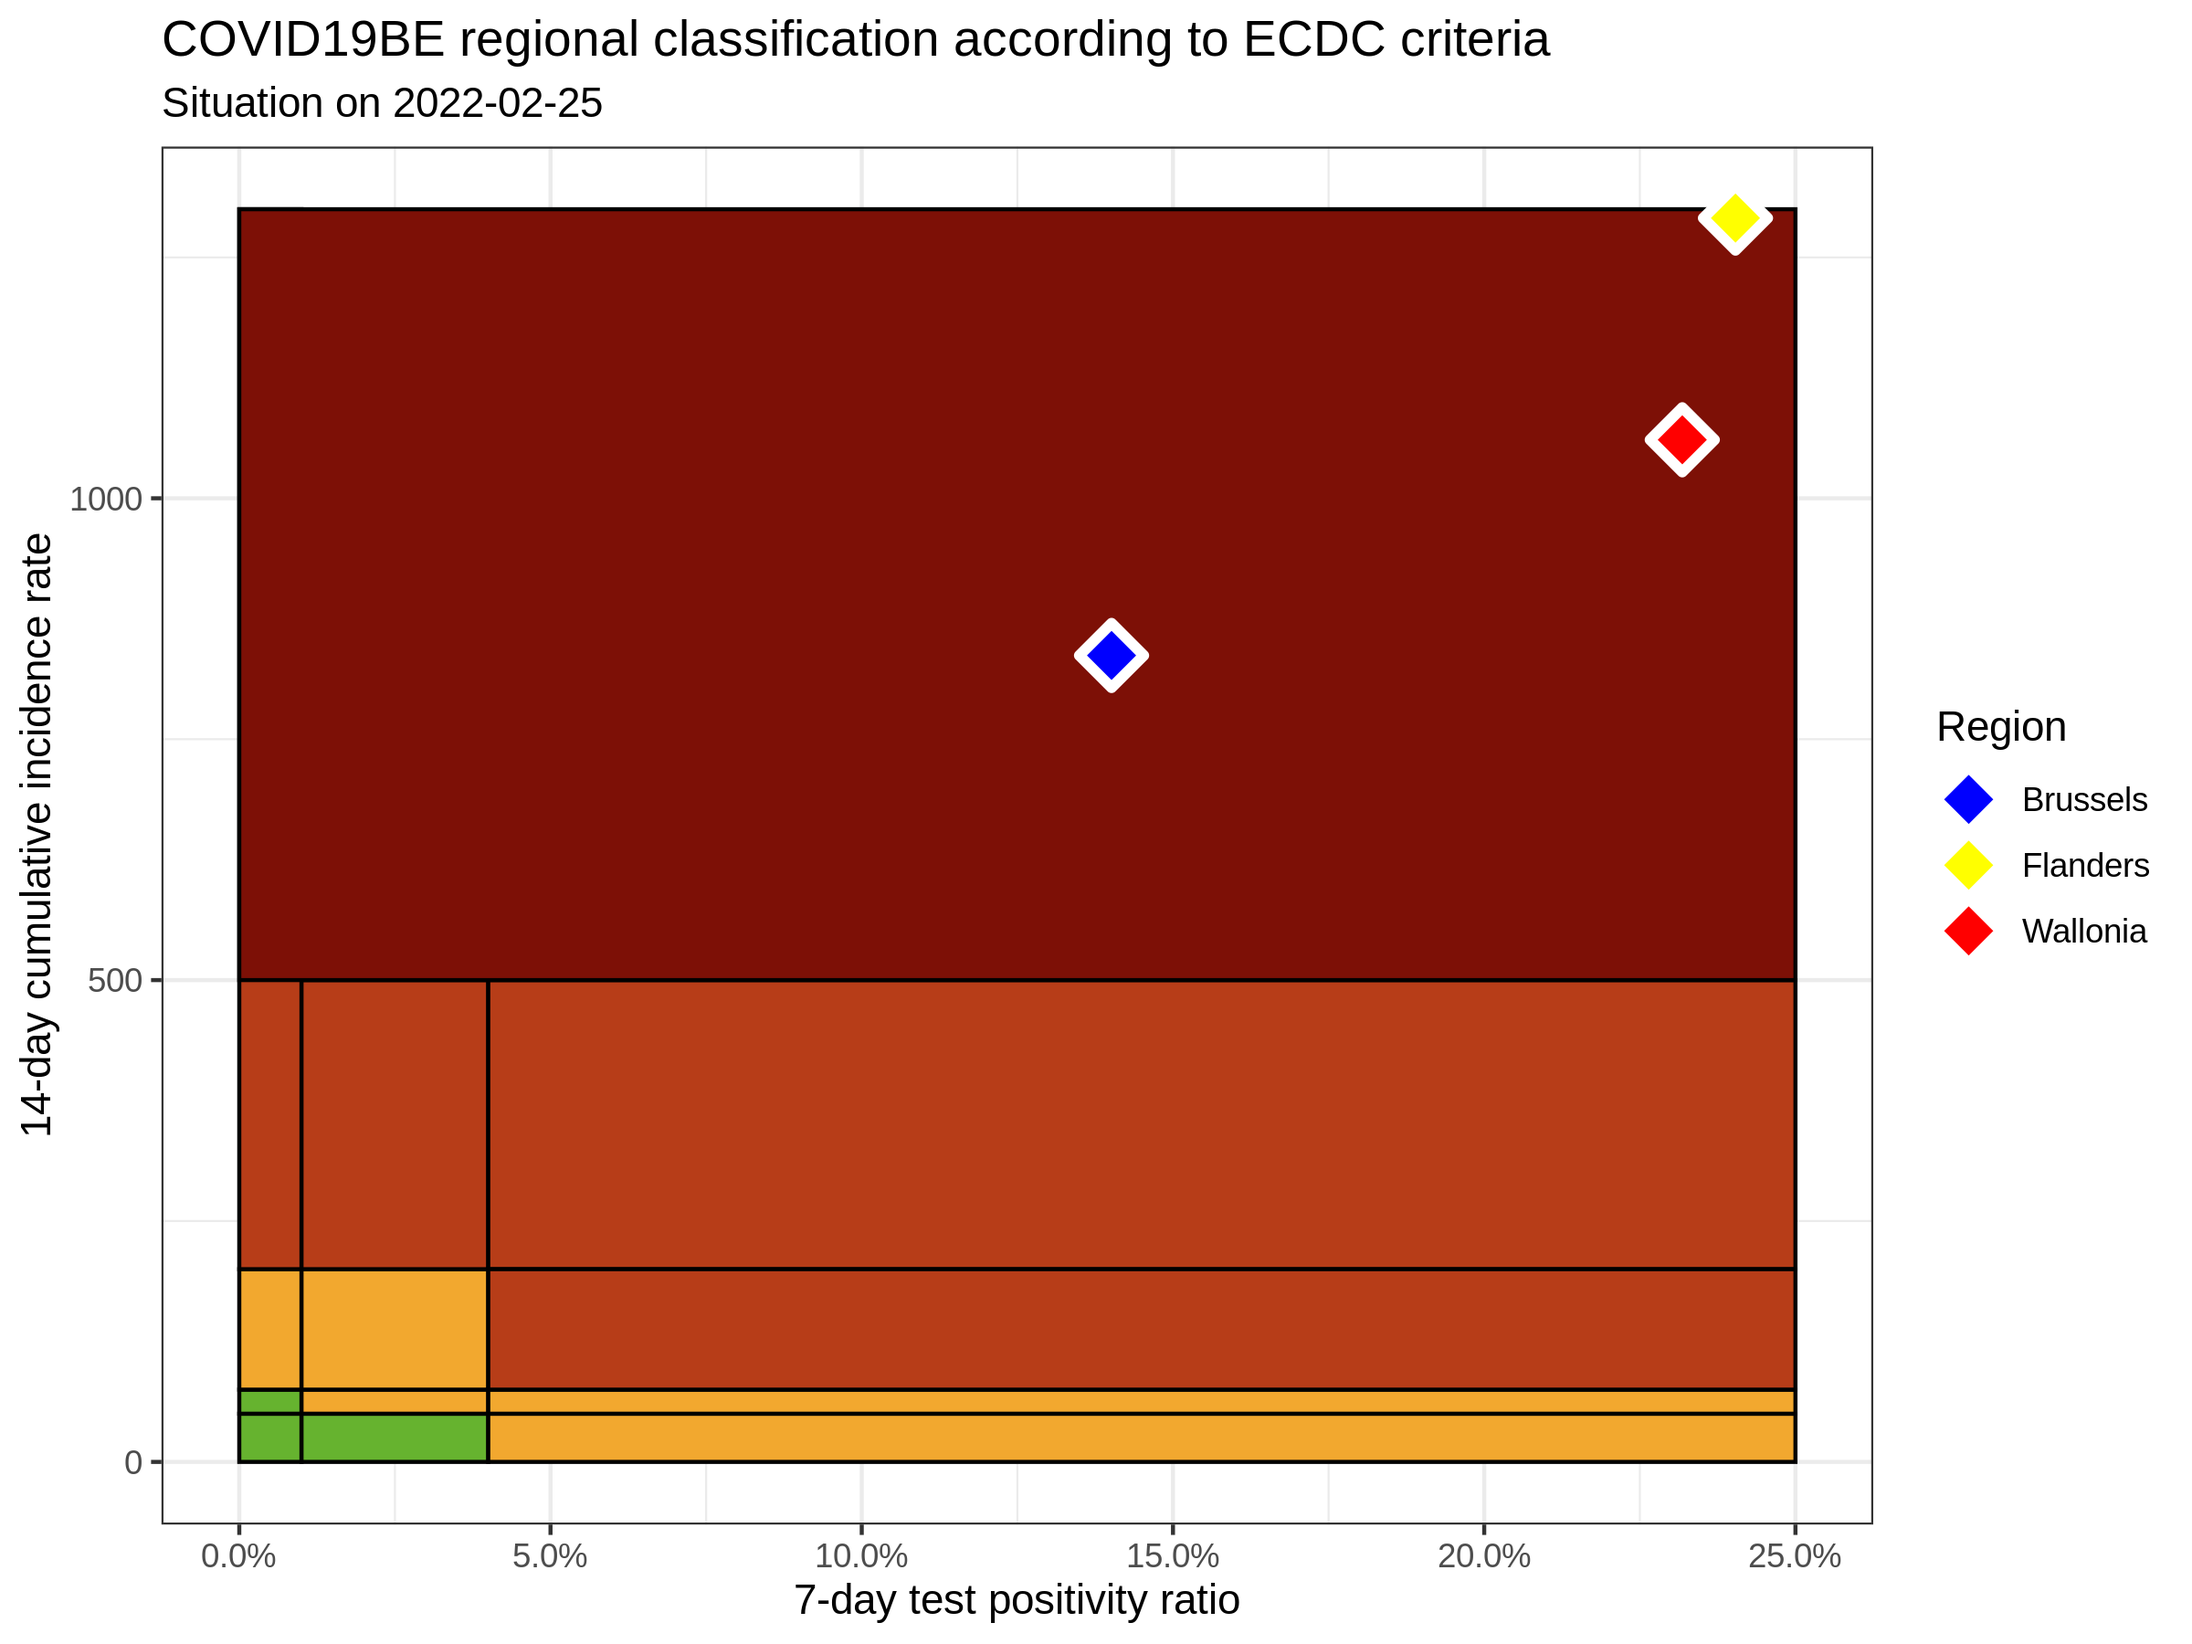
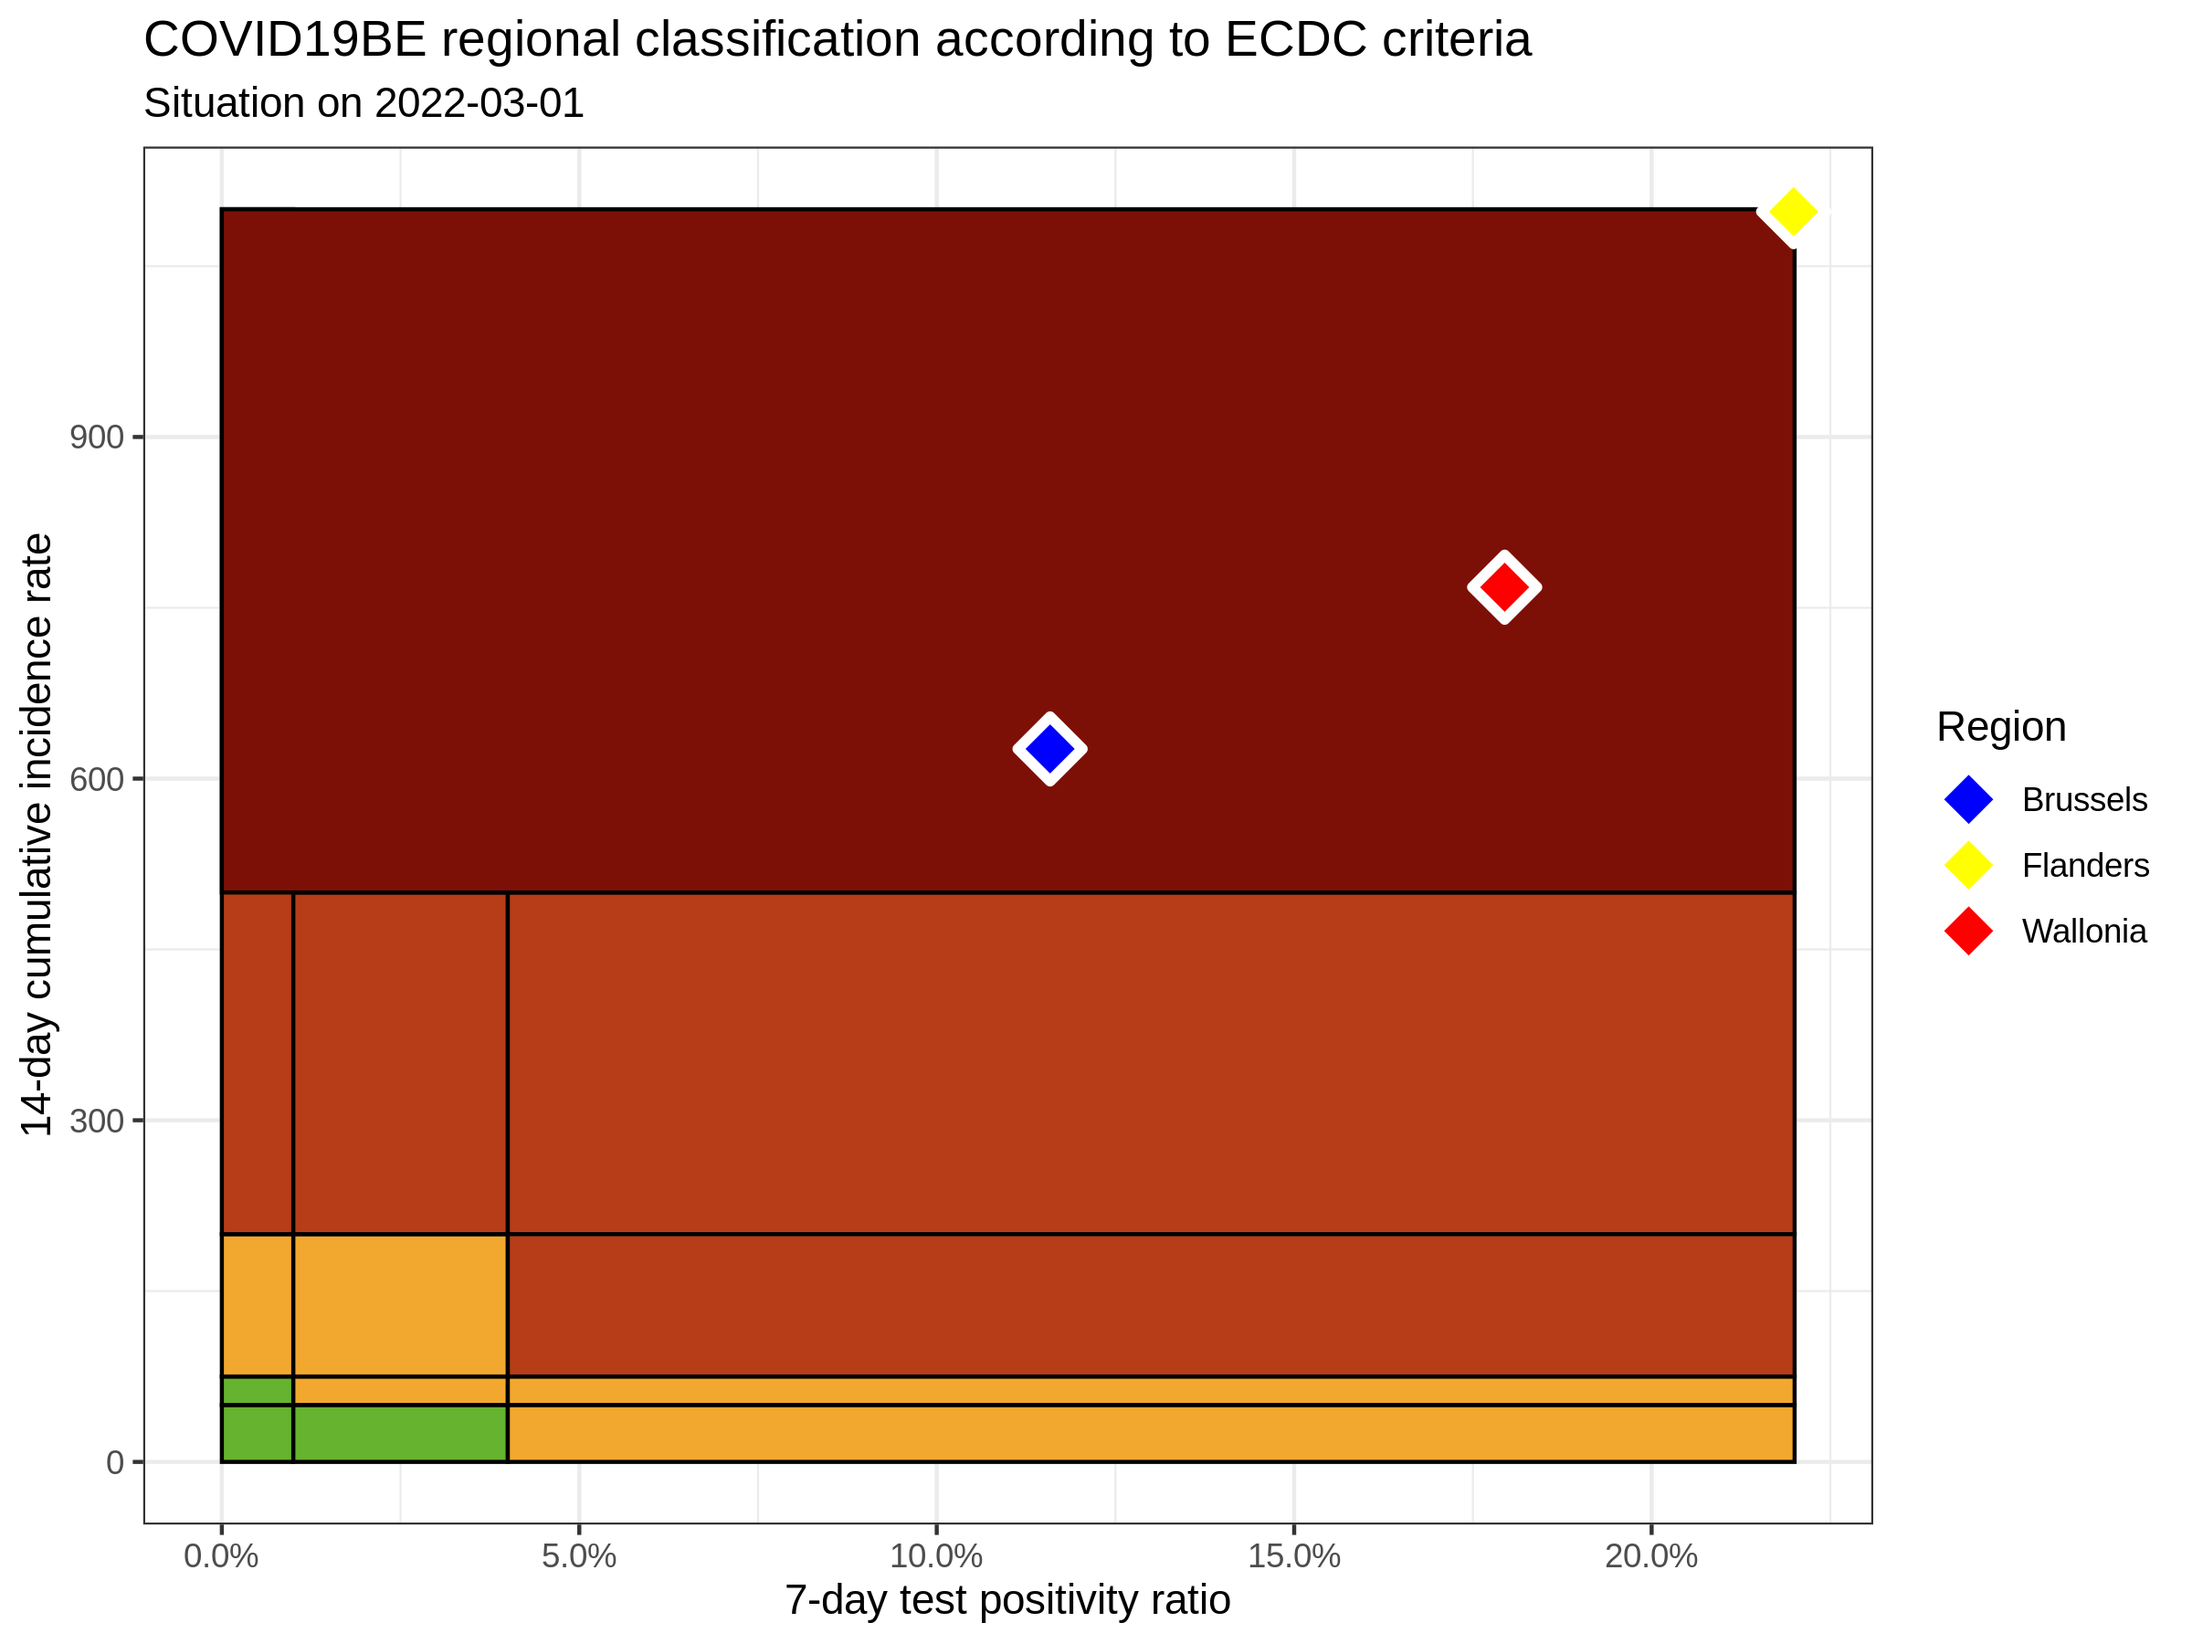
update situation

diff --git a/ecdc-trend/README.md b/ecdc-trend/README.md
@@ -11,9 +11,9 @@
 
 |          | INC14 |  INC7 |   TST7 | TST\_POS7 | REGION   |     POP | INC14\_RT |       PR7 |          GR |
 | :------- | ----: | ----: | -----: | --------: | :------- | ------: | --------: | --------: | ----------: |
-| Brussels | 10210 |  3813 |  33476 |      4691 | Brussels | 1219970 |  836.9058 | 0.1401302 | \-0.4039393 |
-| Flanders | 85878 | 35222 | 168256 |     40443 | Flanders | 6653062 | 1290.8041 | 0.2403659 | \-0.3046826 |
-| Wallonia | 38697 | 14122 |  71758 |     16635 | Wallonia | 3648206 | 1060.7131 | 0.2318208 | \-0.4253510 |
+| Brussels |  7638 |  3003 |  31634 |      3665 | Brussels | 1219970 |  626.0810 | 0.1158564 | \-0.3521036 |
+| Flanders | 73043 | 31350 | 162018 |     35622 | Flanders | 6653062 | 1097.8855 | 0.2198645 | \-0.2480752 |
+| Wallonia | 28021 | 10336 |  66573 |     11946 | Wallonia | 3648206 |  768.0761 | 0.1794421 | \-0.4155499 |
 
 ### Read more
 
